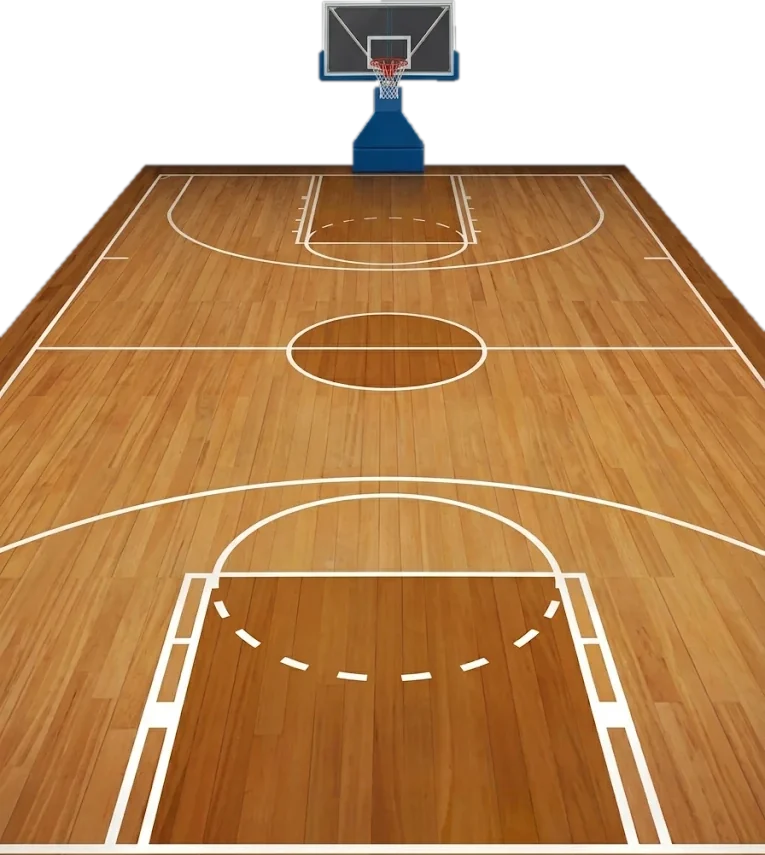
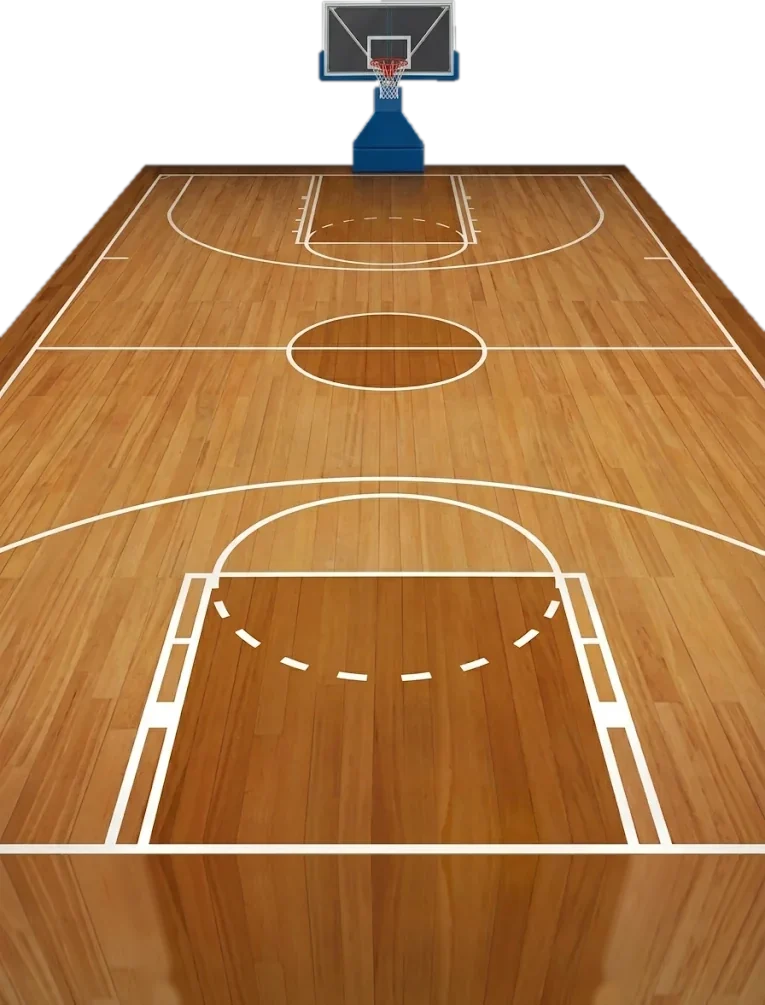
Escalação: quadra completada embaixo (chão até a borda da tela)
Claude-Session: https://claude.ai/code/session_01Ufw5em1U7zhES5ZZ6BceRT

diff --git a/escalacao.html b/escalacao.html
@@ -41,7 +41,7 @@
 html,body{margin:0;height:100%;background:transparent;color:#fff;font-family:Arial,Helvetica,sans-serif;overflow:hidden;}
 body.teste{background:linear-gradient(160deg,#4b5563,#1f2937);} body.teste::before{content:'(aqui aparece a imagem da câmera do Klaus)';position:fixed;left:50%;top:50%;transform:translate(-50%,-50%);font:700 22px Arial;color:rgba(255,255,255,.18);}
 .palco{position:absolute;left:50%;top:50%;transform:translate(-50%,-50%);width:min(100vw,177.78vh);aspect-ratio:16/9;overflow:hidden;}
-.qd{position:absolute;left:50%;bottom:0;transform:translateX(-50%);height:84%;aspect-ratio:765/855;background:url(quadra_escalacao.webp) center/100% 100% no-repeat;}
+.qd{position:absolute;left:50%;bottom:-2.3%;transform:translateX(-50%);height:88.3%;aspect-ratio:765/1005;background:url(quadra_escalacao.webp) center/100% 100% no-repeat;}
 .time{position:absolute;inset:0;display:none;}
 .time.on{display:block;}
 .escGrande{position:absolute;left:50%;top:4%;transform:translateX(-50%);height:34%;opacity:.45;filter:drop-shadow(0 0 30px rgba(0,0,0,.8));pointer-events:none;}
@@ -49,7 +49,7 @@ body.teste{background:linear-gradient(160deg,#4b5563,#1f2937);} body.teste::befo
 .abas button{font:700 clamp(12px,2vh,18px) 'Oswald',Arial;letter-spacing:1.5px;text-transform:uppercase;padding:.5em 1.1em;border-radius:999px;border:2px solid rgba(255,255,255,.35);background:rgba(0,0,0,.55);color:#ddd;cursor:pointer;display:flex;align-items:center;gap:.5em;}
 .abas{align-items:center;}.abas .abEsc{height:clamp(34px,7vh,64px);filter:drop-shadow(0 2px 6px rgba(0,0,0,.7));}
 .abas button.on{background:var(--cor);color:var(--txt);border-color:#fff;}
-.cab{position:absolute;left:0;right:0;top:11%;z-index:2;text-align:center;font:700 clamp(18px,3.4vh,34px) 'Oswald',Arial;letter-spacing:2px;text-transform:uppercase;text-shadow:0 2px 8px #000,0 0 2px #000;}
+.cab{position:absolute;left:0;right:0;top:9%;z-index:2;text-align:center;font:700 clamp(18px,3.4vh,34px) 'Oswald',Arial;letter-spacing:2px;text-transform:uppercase;text-shadow:0 2px 8px #000,0 0 2px #000;}
 .tec{position:absolute;left:2%;top:3%;display:flex;align-items:center;gap:10px;z-index:4;}.tec.dir{left:auto;right:2%;flex-direction:row-reverse;text-align:right;}.tec .tf{width:clamp(30px,5.5vh,56px);aspect-ratio:1;border-radius:50%;border:3px solid var(--cor);background:#1a2233 center/cover;box-shadow:0 4px 12px rgba(0,0,0,.7);}.tec div{font:700 clamp(12px,2vh,20px) Arial;text-shadow:0 2px 6px #000;}.tec small{display:block;font:700 clamp(10px,1.4vh,13px) 'Oswald',Arial;letter-spacing:2px;color:#ffd54f;text-transform:uppercase;}
 .cab small{display:block;font:600 clamp(11px,1.6vh,16px) Arial;letter-spacing:.5px;text-transform:none;opacity:.9;}
 .jog{position:absolute;transform:translate(-50%,-50%) scale(var(--e,1));display:flex;flex-direction:column;align-items:center;cursor:pointer;width:14%;}
@@ -85,7 +85,7 @@ body.teste{background:linear-gradient(160deg,#4b5563,#1f2937);} body.teste::befo
 <script src="sumula.js"></script>
 <script>
 // posições dos 12 na quadra (em % da quadra) e escala pela perspectiva (mais longe = menor)
-const POS=[[26,28,.78],[50,26,.78],[74,28,.78],[14,44,.86],[38,42.5,.86],[62,42.5,.86],[86,44,.86],[22,60.5,.94],[50,59.3,.94],[78,60.5,.94],[34,78,1],[66,78,1]];
+const POS=[[26,23.8,.78],[50,22.1,.78],[74,23.8,.78],[14,37.4,.86],[38,36.2,.86],[62,36.2,.86],[86,37.4,.86],[22,51.5,.94],[50,50.4,.94],[78,51.5,.94],[34,66.4,1],[66,66.4,1]];
 const D={"cores":{"ABIG":["#1F4E79","#FFFFFF"],"ACEAR":["#E2231A","#FFFFFF"],"ASPCM":["#2E3192","#E2231A"],"BFR":["#000000","#FFFFFF"],"BSA":["#F28C28","#FFFFFF"],"CCL":["#1F5FBF","#FFFFFF"],"CESC":["#000000","#FFFFFF"],"CFCSN":["#7B1E22","#FFFFFF"],"CK":["#1A1A1A","#B8860B"],"CRF":["#C8102E","#000000"],"EEPZ":["#1B2A4A","#F28C28"],"FFC":["#7A0026","#00613C"],"IB":["#E06A2C","#000000"],"IDEC":["#1F4E5F","#A4C639"],"IG":["#1F2E8A","#F07A1A"],"ITDA":["#0B1F4B","#FFFFFF"],"JTC":["#2E3448","#F2D33B"],"KE":["#000000","#FFD200"],"MB":["#1A1A1A","#F28C28"],"NBC":["#E2231A","#000000"],"TKA":["#1E8C3A","#F2C200"],"TTC":["#E2231A","#FFFFFF"]},"escudos":{"ABIG":"escudos/ABIG.png","ACEAR":"escudos/ACEAR.png","ASPCM":"escudos/ASPCM.png","BFR":"escudos/BFR.png","BSA":"escudos/BSA.png","CCL":"escudos/CCL.png","CESC":"escudos/CESC.png","CFCSN":"escudos/CFCSN.png","CK":"escudos/CK.png","CRF":"escudos/CRF.png","EEPZ":"escudos/EEPZ.png","FFC":"escudos/FFC.png","IB":"escudos/IB.png","IDEC":"escudos/IDEC.png","IG":"escudos/IG.png","ITDA":"escudos/ITDA.png","JTC":"escudos/JTC.png","KE":"escudos/KE.png","MB":"escudos/MB.png","NBC":"escudos/NBC.png","TKA":"escudos/TKA.png","TTC":"escudos/TTC.png"},"curto":{"BSA":"Basquete S.A.","BFR":"Botafogo","CRF":"Flamengo","CFCSN":"Funcionários","FFC":"Fluminense","TTC":"Tijuca","NBC":"Niterói","CCL":"Leopoldinense","IG":"Iguaba Grande","ABIG":"Jequiá","ACEAR":"Irajá","CESC":"Suzano Costa","EEPZ":"Passo Zero","IDEC":"IDEC","ITDA":"Atitude","KE":"K. Esportes","MB":"Mesquita","JTC":"Jacarepaguá","TKA":"Team Klun","ASPCM":"Municipal","CK":"Carioca King's","IB":"Itaipu","NBR":"NBR Campos"}}; // cores, escudos e nomes curtos (cópia do Ao vivo)
 const KT_API='https://script.google.com/macros/s/AKfycbxJBusZKcHRLpV9_qG4Gs6_8b37Dp5lj5OSXXXdcMRNrRnrO_K1sLo3MiQQ_wEjDx-S/exec';
 async function api(d){ try{ const r=await fetch(KT_API,{method:'POST',headers:{'Content-Type':'text/plain;charset=utf-8'},body:JSON.stringify(d)}); return await r.json(); }catch(e){ return {ok:false}; } }
